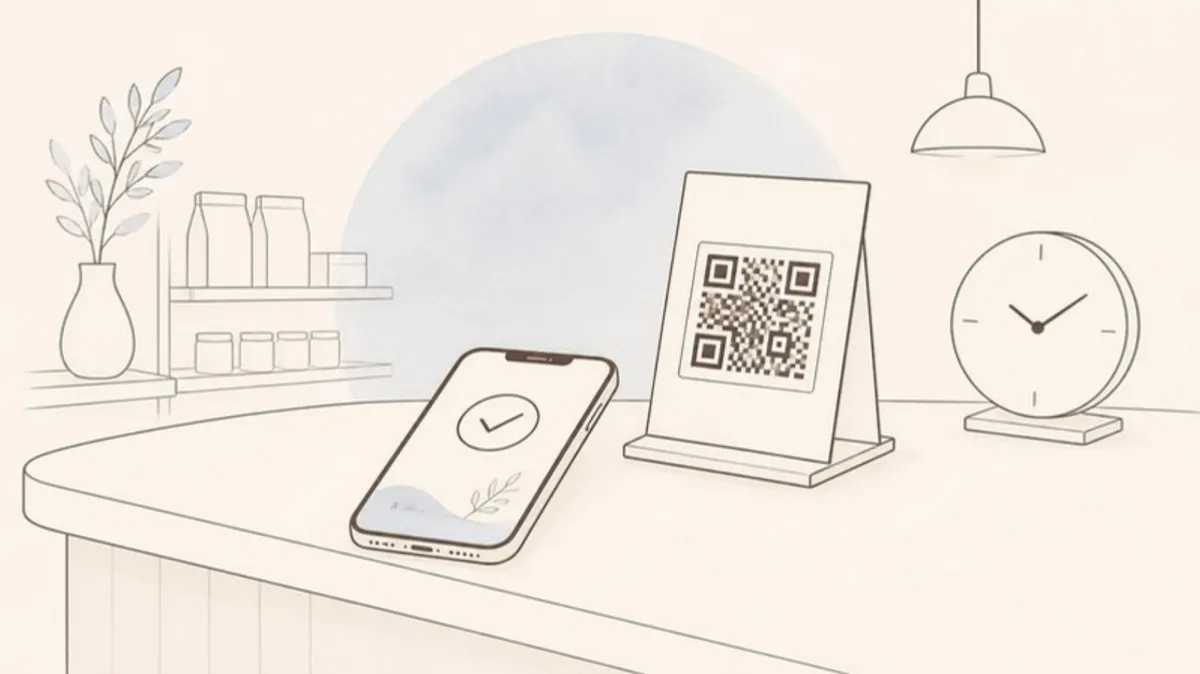
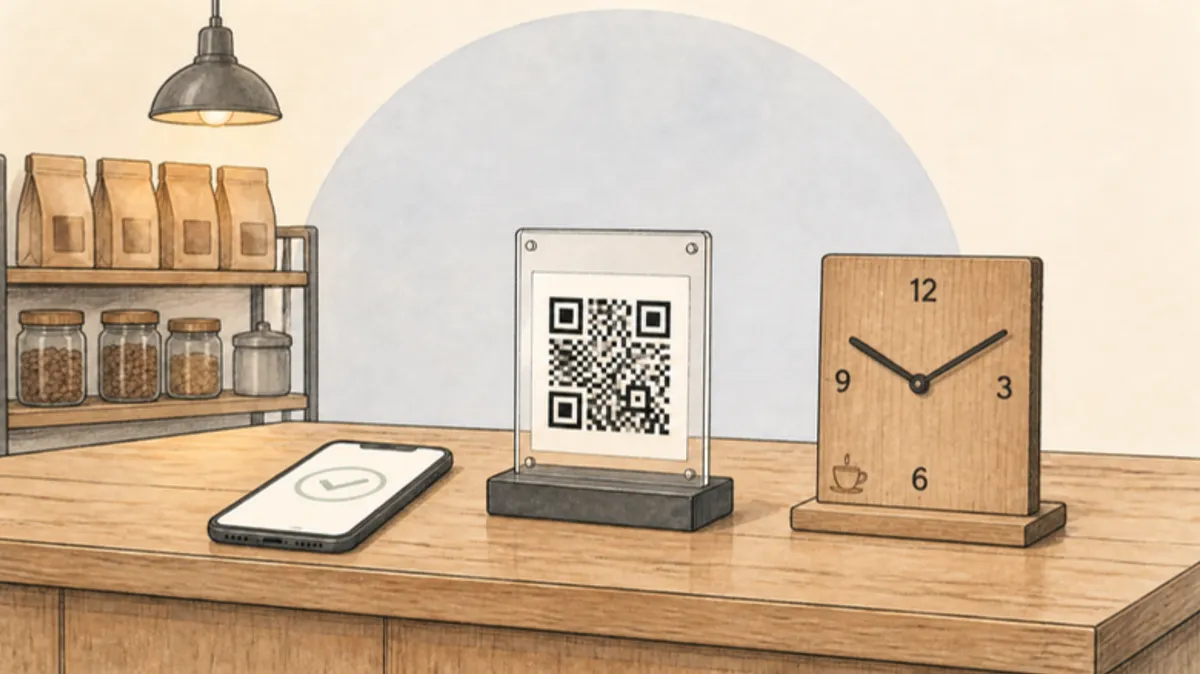
QR決済の記事2本の挿絵を描き直し（偽シールを貼る場面、木の置き時計）

diff --git a/content/posts/qr-payment-screen-check.md b/content/posts/qr-payment-screen-check.md
@@ -36,7 +36,7 @@ products:
 
 QRコード決済の会計で、お客様のスマホに出た「支払い完了」の画面を見せてもらって、それで会計を終えていませんか。忙しい時間はつい画面だけで判断したくなりますよね。ただ、**過去の画面を見せて支払ったように見せる**手口もあるので、お店の側でも入金を確かめる流れにしておくと安心です。
 
-![支払い完了のチェックマークが表示されたスマートフォンと、QRコードのスタンド、時計のイラスト](/images/posts/qr-payment-screen-check-1.webp)
+![支払い完了のチェックマークが表示されたスマートフォンと、QRコードのスタンド、木の置き時計のイラスト](/images/posts/qr-payment-screen-check-1.webp)
 
 ## QRコード決済には2つの方式がある
 

diff --git a/content/posts/qr-code-swap-prevention.md b/content/posts/qr-code-swap-prevention.md
@@ -37,7 +37,7 @@ products:
 
 レジの横に置いたQRコードを、お客様に読み取ってもらって支払う。手軽で便利な方法ですが、**そのQRコードの上に、偽物のQRコードを貼られる**という手口があります。気づかないうちに売上が別の場所に送られてしまうこともあるので、毎日の点検を習慣にしておくと安心です。
 
-![上から貼られた偽のQRコードのシールがはがれかけている決済スタンドと虫めがねのイラスト](/images/posts/qr-code-swap-prevention-1.webp)
+![手袋をした手が、決済スタンドのQRコードの上に偽のQRコードのシールを貼っているイラスト](/images/posts/qr-code-swap-prevention-1.webp)
 
 ## どんな手口があるのか
 
